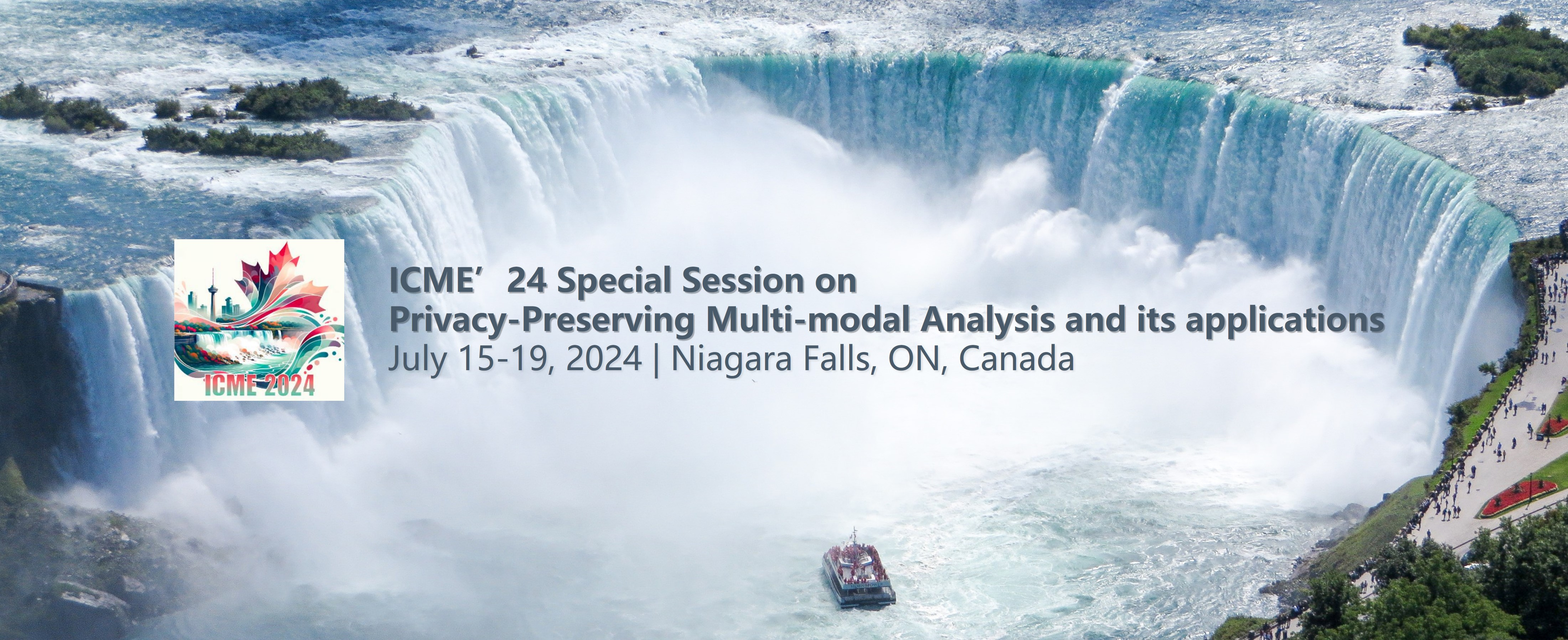
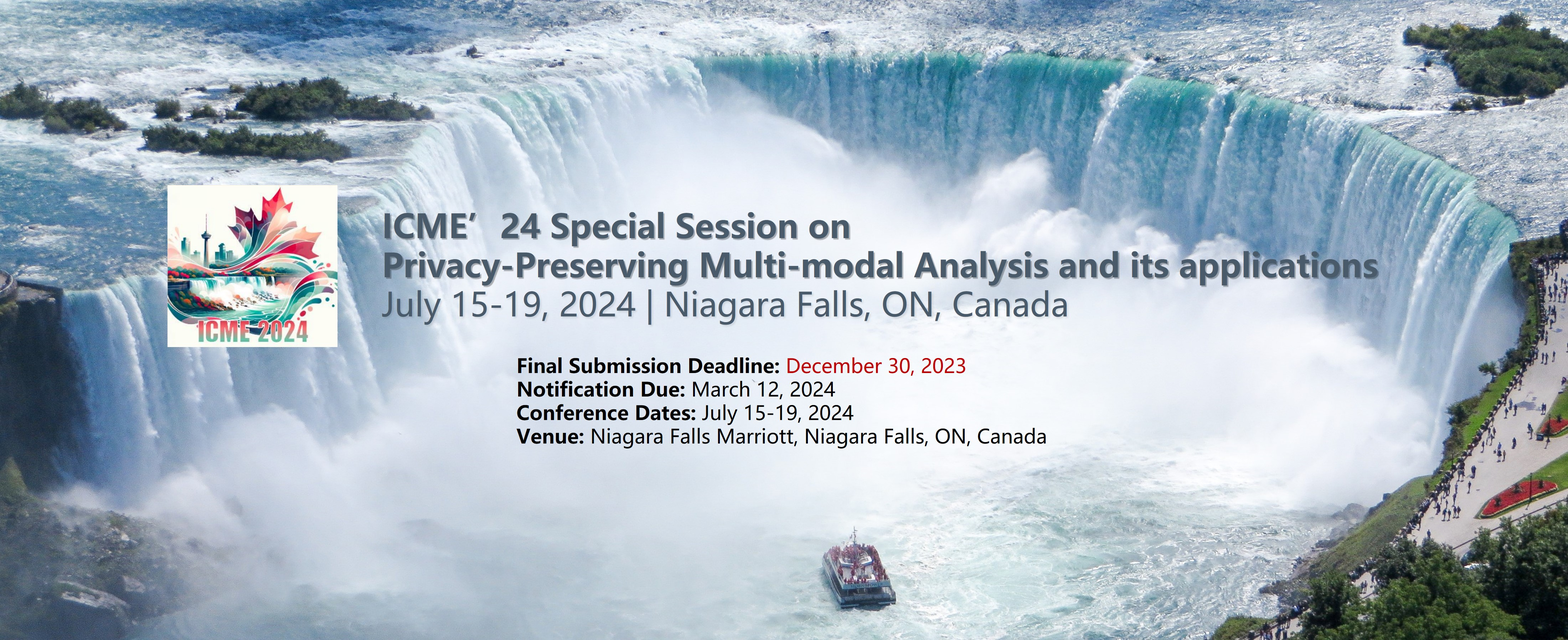
Update Session

Changed region(s): [[0.0934, 0.2803, 0.903, 0.7164]]

diff --git a/ICME_24_Special_Session/privacy-multimodal-icme-2024.html b/ICME_24_Special_Session/privacy-multimodal-icme-2024.html
@@ -47,16 +47,16 @@ function writeTimeRange(startTime, endTime, showDateDifference = false) {
 </script>
 
 <head>
-<div class="container">
+<div class="container-top">
     <div align="center">
-<a href="https://2024.ieeeicme.org/" target="_blank"><img border="0" width="100%" src="Privacy-ICME24/header.jpg"></img></a>
-<p>
+      <a href="https://2024.ieeeicme.org/" target="_blank"><img border="0" width="100%" src="Privacy-ICME24/header.jpg"></img></a>
+<!-- <p>
 <h3>ICME'24 Special Session on "Privacy-Preserving Multi-modal Analysis and its applications"</h3>
 
 <br><b>Final Submission Deadline</b>: <span style="color:red">December 30, 2023</span>
 <br><b>Notification Due</b>: March 12, 2024
 <br><b>Conference Dates</b>: July 15-19, 2024
-<br><b>Venue</b>: Niagara Falls Marriott, Niagara Falls, ON, Canada
+<br><b>Venue</b>: Niagara Falls Marriott, Niagara Falls, ON, Canada -->
     </div>
 </div>
 </head>
@@ -106,7 +106,7 @@ function writeTimeRange(startTime, endTime, showDateDifference = false) {
 	<li><b>Submission site:</b> All papers must indicate a Primary Subject Area to be appropriately reviewed. <b>Papers invited to a Special Session must indicate the Special Session as the Primary Subject Area of the paper.</b> The Special Sessions are open to all authors. All authors are invited to submit their papers to any of the Special Sessions by indicating the Special Session as the Primary Subject area of the paper.</li>
 	<li><b>Double blind rules:</b> ICME 2024 reviewing is double blind, which means that authors cannot know the names of the reviewers of their papers, and reviewers cannot know the names of the authors. Information that may identify the authors anywhere in the submitted materials must be avoided. In particular, in the submitted pdf paper, the usual list of authors, their institutions, and their contact information must be replaced by the phrase, “Anonymous ICME Submission.” Identifying information in the acknowledgments (e.g., co-workers and grant IDs), supplemental materials (e.g., titles in the videos, or attached papers), and links to the authors’ or their institutions’ websites must also be avoided. Please read Section 2 of the example paper below for further guidance on how to preserve anonymity. The only place that authors may be identified is in the online submission form. Submissions that do not conform to these double blind rules will be rejected immediately without review.</li>
 	<li><b>Dual submissions:</b> By submitting a manuscript to ICME, the authors guarantee that it has not been previously published (or accepted for publication) in substantially similar form. Furthermore, no paper that contains significant overlap with the contributions of this paper either has been or will be submitted during the ICME 2024 review period to either a journal or a conference.</li>
-	<li><b>Supplemental material:</b> Authors may optionally upload supplemental material. Supplemental material must be anonymized. Typically, supplemental material might include:
+	<!-- <li><b>Supplemental material:</b> Authors may optionally upload supplemental material. Supplemental material must be anonymized. Typically, supplemental material might include:
     <ul>
       <li>a short presentation summarizing the paper</li>
       <li>videos of results that cannot be included in the main paper</li>
@@ -116,7 +116,7 @@ function writeTimeRange(startTime, endTime, showDateDifference = false) {
     </ul>
     * Note that the contents of the supplemental material should be referred to appropriately in the paper and that reviewers are not obliged to look at it. All supplemental material must be zipped into a single file. There is a 20 MB limit on the size of this file.
   </li>
-  <li><b>Presentation guarantee:</b> By submitting the paper, the authors guarantee that if the paper is accepted, it will be presented at the conference by one of the authors, except in case of emergency as determined by the Technical Co-Chairs. Furthermore, the presenter must register for the conference at one of the non-student rates offered, and must register before the deadline given for author registration. Failure to register before the deadline will result in automatic withdrawal of your paper from the conference proceedings and program. Failure to present the paper by an author in person will result in the paper not appearing in IEEE Xplore, and IEEE will retain the copyright. Also, the list of missing authors will be passed to the ICME Steering Committee.</li>
+  <li><b>Presentation guarantee:</b> By submitting the paper, the authors guarantee that if the paper is accepted, it will be presented at the conference by one of the authors, except in case of emergency as determined by the Technical Co-Chairs. Furthermore, the presenter must register for the conference at one of the non-student rates offered, and must register before the deadline given for author registration. Failure to register before the deadline will result in automatic withdrawal of your paper from the conference proceedings and program. Failure to present the paper by an author in person will result in the paper not appearing in IEEE Xplore, and IEEE will retain the copyright. Also, the list of missing authors will be passed to the ICME Steering Committee.</li> -->
 </ul>
 
 <p>Example paper with detailed instructions and LaTeX template (zip file): <a href="https://www.2023.ieeeicme.org/download/icme2023template.zip" target="_blank">Link</a></p>

diff --git a/ICME_24_Special_Session/css/style.css b/ICME_24_Special_Session/css/style.css
@@ -85,6 +85,7 @@ a:hover {
 
 .container {
 	width: 1024px;
+	/* width: 75%; */
 	min-height: 100px;
 	margin: 0 auto; /* top and bottom, right and left */
 	border: 1px hidden #000;
@@ -93,6 +94,19 @@ a:hover {
 	padding: 1em 1em 1em 1em; /* top, right, bottom, left */
 	color: #4d4b59;
 	background: #f7f7f7;
+}
+
+.container-top {
+	width: 1024px;
+	/* width: 75%; */
+	min-height: 100px;
+	margin: 0 auto; /* top and bottom, right and left */
+	/* border: 1px hidden #000; */
+	/* border: none; */
+	text-align: justify;
+	/* padding: 1em 1em 1em 1em; top, right, bottom, left */
+	/* color: #4d4b59; */
+	/* background: #f7f7f7; */
 }
 
 .overview {
